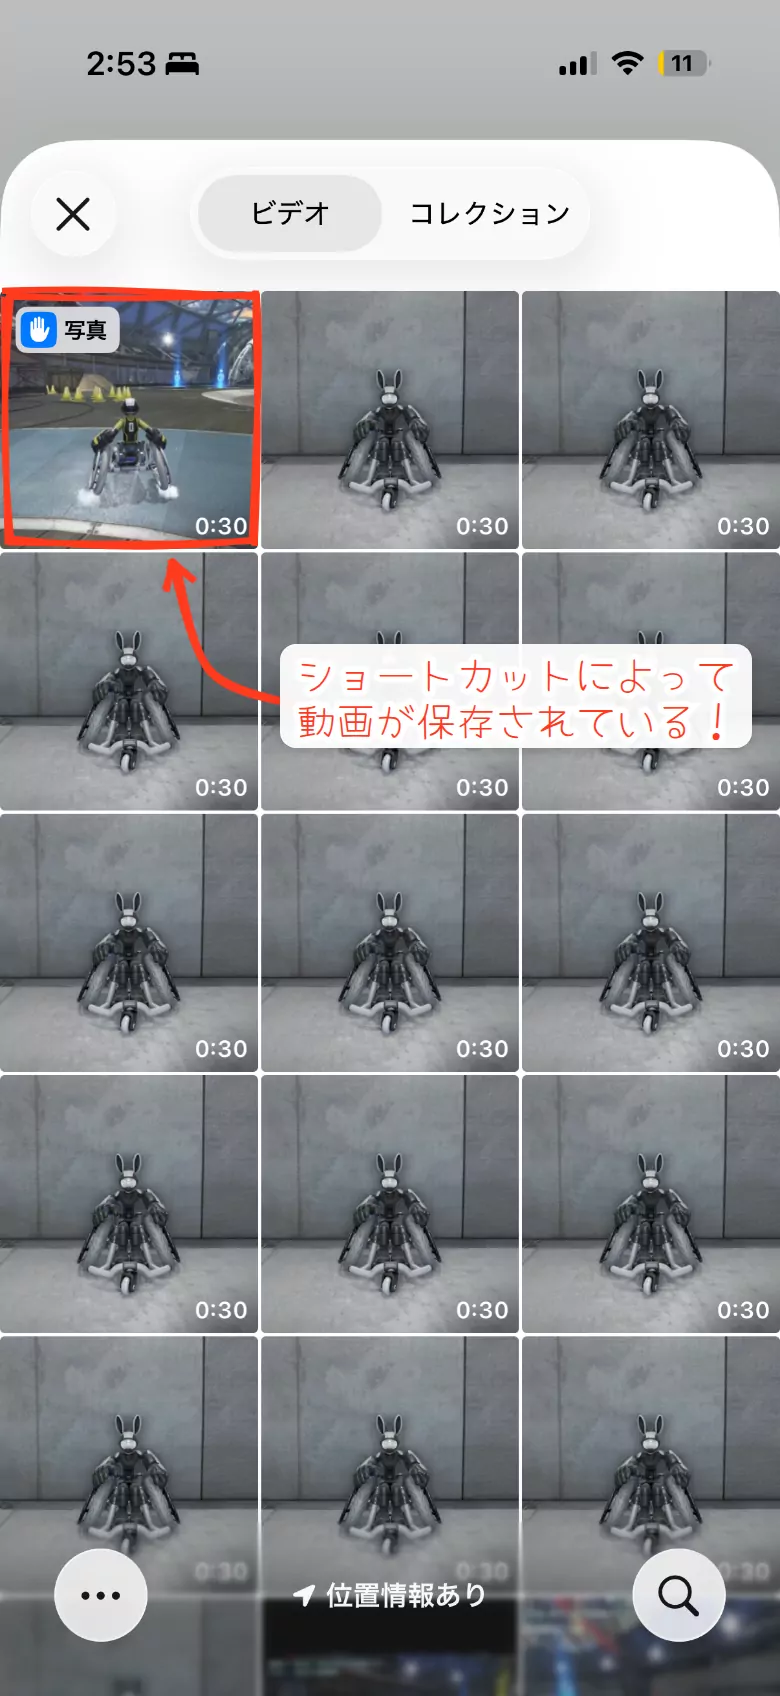
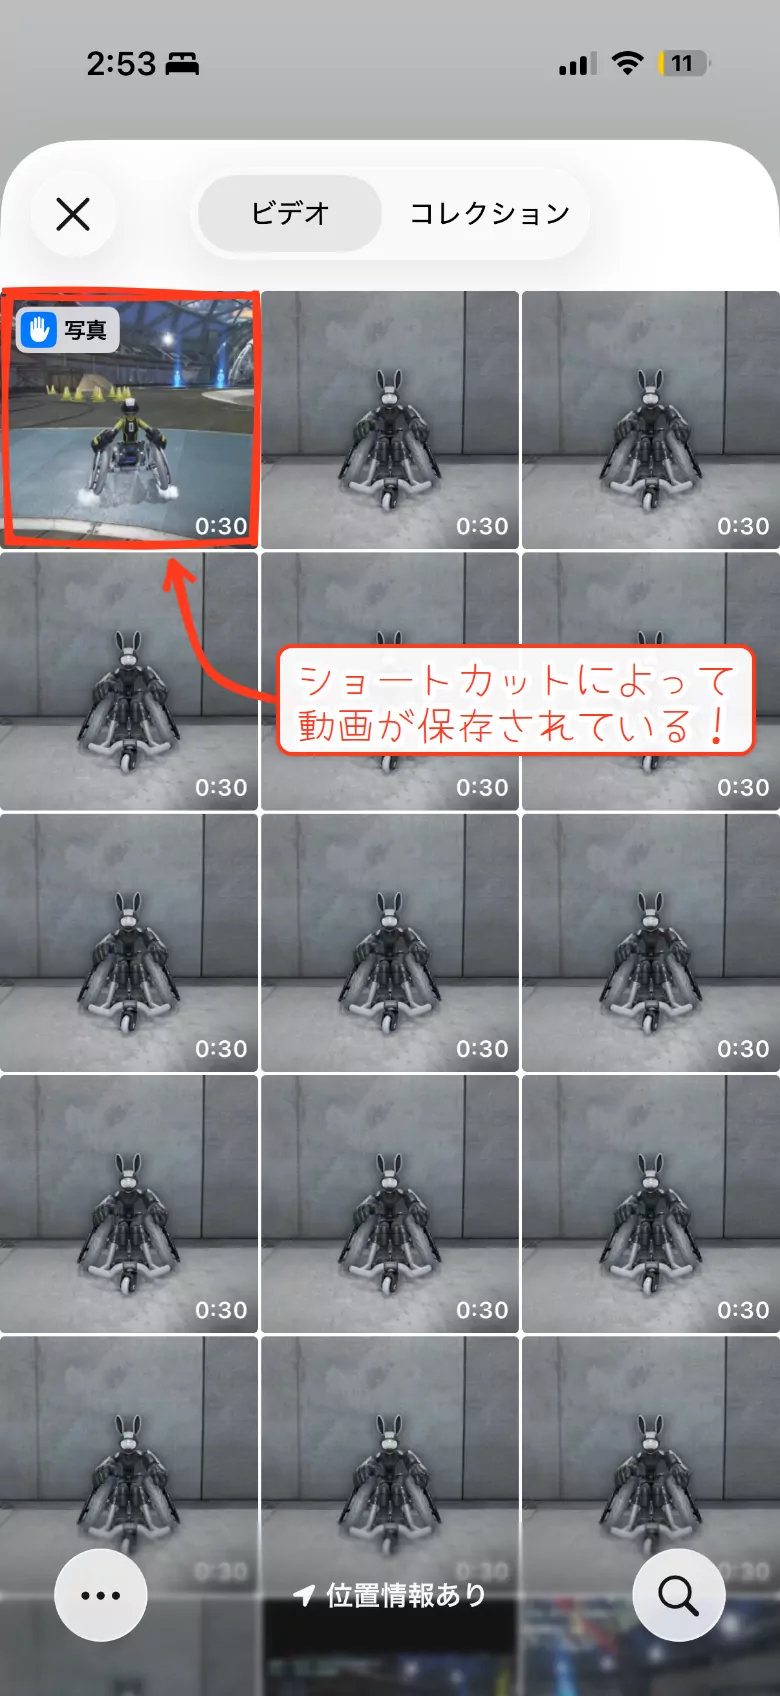
docs: ショートカットの流れの3・4枚目の説明の枠に、赤い枠線を付ける
Claude-Session: https://claude.ai/code/session_01Kjx2uZRnB9w1XNEyRL87P8

Changed region(s): [[0.3385, 0.375, 0.9846, 0.4688]]

diff --git a/public/sw.js b/public/sw.js
@@ -8,7 +8,7 @@
  */
 'use strict';
 
-var CACHE = 'video-compressor-under20mb-v64';
+var CACHE = 'video-compressor-under20mb-v65';
 var NETWORK_TIMEOUT_MS = 3000;   // ネット優先のとき、ネットの応答をこれだけ待ってからキャッシュを使う
 
 // Cloudflare Pages のプレビュー（<ブランチ名>.<プロジェクト名>.pages.dev）と手元の確認環境だけネット優先にする
